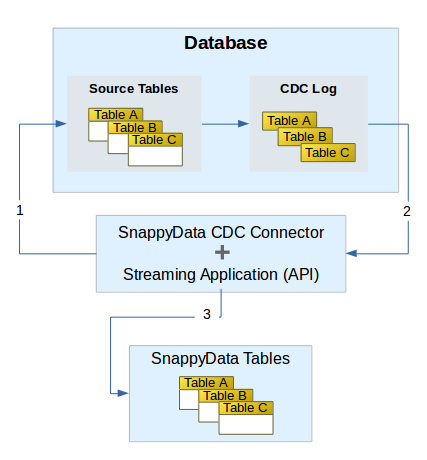
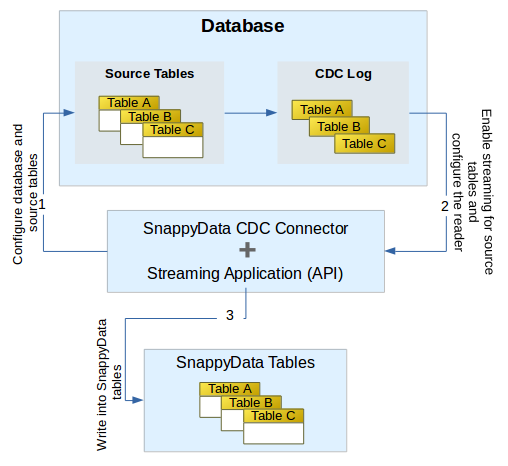
Updates to CDC doc

Changed region(s): [[0.0, 0.0, 0.9742, 0.9739], [0.1827, 0.1522, 0.4262, 0.3652]]

diff --git a/docs/connectors/cdc_connector.md b/docs/connectors/cdc_connector.md
@@ -4,14 +4,24 @@
 
 The Change Data Capture (CDC) mechanism enables you to capture changed data. The functionality provides an efficient framework for tracking inserts, updates, and deletes in tables in a SQL Server database. It is used to source event streams from JDBC sources to SnappyData streaming.</br>
 
-In this topic, we explain how SnappyData's Smart Connector application uses the JDBC streaming connector to pull changed data from Microsoft SQL Server and ingest it into SnappyData tables.
+In this topic, we explain how SnappyData uses the JDBC streaming connector to pull changed data from SQL database and ingest it into SnappyData tables.
 
 !!!Note:
-	Writing data into two different tables from a single table is currently not supported as the schema for incoming DataFrame cannot be changed. Currently, one to one correspondence between source table and destination table is supported.
+
+	- Writing data into two different tables from a single table is currently not supported as the schema for incoming data frame cannot be changed. Currently, one to one correspondence between the source table and destination table is supported.
+
+	- To capture changed data for multiple source tables, ensure that you create an instance for each source table.
+
+	-  For every source table that needs to be tracked for changes, ensure that there is a corresponding destination table in SnappyData.
+
 
 ## Prerequisites
 
-- You need the **snappydata-jdbc-stream-connector_2.11-0.9.jar**, which is available in the **$SNAPPY_HOME/jars** directory. </br>If you are using Maven or gradle project to develop the streaming application, you need to publish the above jar into a local maven repository.
+- Use a user account with the required roles and privileges to the database.
+
+- Ensure that a SQL Server to which SnappyData CDC Connector can connect is running and available.
+
+- You need the **snappydata-jdbc-stream-connector_2.11-0.9.jar**, which is available in the **$SNAPPY_HOME/jars** directory. </br>If you are using Maven or Gradle project to develop the streaming application, you need to publish the above jar into a local maven repository.
 
 - To run your application in the Smart connector mode, refer to the [documentation](../affinity_modes/connector_mode.md).
 
@@ -20,14 +30,23 @@ The following image illustrates the data flow for change data capture:</br>
 
 ## Setting up the CDC Connector
 
+To use this functionality have to configure the database and tables, enable streaming for the source tables, configure the reader and the writer.
+
+In this section, we discuss the steps required to set up the CDC connector and various components.
+
+### Understanding the Program Structure
+
 The RDB CDC connector ingests data into SnappyData from any JDBC enabled data server. We have a custom source with alias “jdbcStream” and a custom Sink with alias “snappystore”. Source has the capability to read from a JDBC source and Sink can do inserts/updates and deletes based on CDC operations
 
 ### Step 1: Set Up the Source SQL Database and Tables
 
-Ensure that change data capture is enabled for the database and table level. Refer to your database documentation for more information on enabling CDC for your database and tables.
+Ensure that change data capture is enabled for the database and table level. Refer to your database documentation for more information on enabling CDC.
 
-### Step 2: Enable Streaming for the Source Tables
+### Step 2: Enable Streaming for the Source Tables and configure the Reader
 
+
+
+#### Enable Streaming for the Source Tables
 Structured streaming and Spark’s JDBC source is used to read from the source database system.
 
 To enable this, set a stream referring to the source table.</br>
@@ -99,11 +118,11 @@ The JDBC Stream Reader options are:
     |`user`|User name |
     |`password`|Password|
     |`databaseName`|Database name|
-    |`poolImpl`|Connection pool implementation(default hikari) Only tomcat & hikari are supported|
+    |`poolImpl`|Connection pool implementation(default Hikari) Only Tomcat and Hikari are supported|
     |`maximumPoolSize`|Connection pool size ( default 10)|
     |`minimumIdle`|Minimum number of idle connection( default 5)|
 
-### Step 3: Operating on the reader with normal Structured streaming APIs
+#### Operating on the reader with normal Structured streaming APIs
 
 The sample usage can be as follows:
 
@@ -111,7 +130,7 @@ The sample usage can be as follows:
 Dataset<Row> ds = reader.load();
 ds.filter(<filter_condition>)
 ```
-### Step 4: Writing into SnappyData tables
+### Step 3: Writing into SnappyData tables
 
 To write into SnappyData tables you need to have a StreamWriter as follows:
 
@@ -124,17 +143,17 @@ ds.writeStream()
         .start();
 ```
 
-**Snappy Stream Writer options**
+#### Snappy Stream Writer options
 
-The **sink** option is mandatory for SnappyStore sink. This option is required to give the user control of the obtained dataframe. You can however provide any custom option when writing the streaming data to the tables.
+The **sink** option is mandatory for SnappyStore sink. This option is required to give the user control of the obtained data frame. You can, however, provide any custom option when writing the streaming data to the tables.
 
 | Key | Value |
 |--------|--------|
-|sink|A user defined callback class which will get a dataframe in each batch. The class must implement org.apache.spark.sql.streaming.jdbc.SnappyStreamSink interface.|
+|sink|A user-defined callback class which will get a data frame in each batch. The class must implement org.apache.spark.sql.streaming.jdbc.SnappyStreamSink interface.|
 
 **org.apache.spark.sql.streaming.jdbc.SnappyStreamSink**
 
-The above trait contains a single method , which user needs to implement. A user can use SnappyData mutable APIs (insert/update/delete/putInto) to maintain tables.
+The above trait contains a single method, which user needs to implement. A user can use SnappyData mutable APIs (insert/update/delete/putInto) to maintain tables.
 
 ```pre
     def process(snappySession: SnappySession, sinkProps: Properties,
@@ -164,7 +183,7 @@ A typical implementation would look like:
       snappyJavaUtil(snappyCustomerDelete.write()).deleteFrom("APP." + snappyTable);
 
       if(batchId == 0){ // Batch ID will be always 0 when stream app starts
-        // Incase of 0th batchId always do a putInto , as we don't know if its restaring from a failure.
+        // In case of 0th batchId always do a putInto , as we do not know if it is restarting from a failure.
         Dataset<Row> snappyCustomerUpsert = df
             // pick only insert/update ops
             .filter("\"__$operation\" = 4 OR \"__$operation\" = 2")
@@ -196,14 +215,23 @@ A typical implementation would look like:
 
 ## Additional Information
 
-**Offset Management**: One table per application is maintained for offset management (Offset table name for application = AppName_SNAPPY_JDBC_STREAM_CONTEXT). </br>
-The schema of the table is:
-               
-|TABLENAME  |LASTOFFSET |
-|--------|--------|
+- **Offset Management**: </br>
+	One table per application is maintained for offset management (Offset table name for application = AppName_SNAPPY_JDBC_STREAM_CONTEXT). </br>
+    The schema of the table is:
 
-Initially, the table contains no rows. The connector inserts a row for the table with minimum offset queried from the database. On subsequent intervals, it consults this table to get the offset number. </br>
-If connector application crashes, it refers to this table on restart to query further.
+    |TABLENAME  |LASTOFFSET |
+    |--------|--------|
 
-!!! Note
- 	The Spark configuration property `spark.task.maxFailures` defines the number of failures before giving up on the job. Set the value of this property to 0, for connector application to prevent Spark from retrying failed inserts.
+    Initially, the table contains no rows. The connector inserts a row for the table with minimum offset queried from the database. On subsequent intervals, it consults this table to get the offset number. </br>
+    If connector application crashes, it refers to this table on a restart to query further.
+
+    !!! Note
+        The Spark configuration property `spark.task.maxFailures` defines the number of failures before giving up on the job. Set the value of this property to 0, for connector application to prevent Spark from retrying failed inserts.
+    
+- **Primary Keys**: </br>
+	Primary keys are not supported for column tables. You can use `key_columns` instead, to uniquely identify each row/record in a database table. </br> For more information, see [CREATE EXTERNAL TABLE](../reference/sql_reference/create-external-table.md) and [CREATE TABLE](../reference/sql_reference/create-table.md).</br>
+    For example:
+
+		CREATE EXTERNAL staging_<table_name> USING csv OPTIONS(<path_to_csv_file>)
+
+		CREATE TABLE <table_name> USING column OPTIONS(partition_by '<column_name>', buckets '<num_partitions>',key_columns '<primary_key>') AS (SELECT * FROM from external table);

diff --git a/docs/programming_guide/snappydata_jobs.md b/docs/programming_guide/snappydata_jobs.md
@@ -1,5 +1,6 @@
 <a id="snappydata-jobs"></a>
 # SnappyData Jobs
+
 To create a job that can be submitted through the job server, the job must implement the **SnappySQLJob** or **SnappyStreamingJob** trait. The structure of a job looks as below:
  
 **Scala**
@@ -64,6 +65,7 @@ See [examples](https://github.com/SnappyDataInc/snappydata/tree/master/examples/
 SnappySQLJob trait extends the SparkJobBase trait. It provides users the singleton SnappyContext object that may be reused across jobs. SnappyContext singleton object creates one SnappySession per job. Similarly, SnappyStreamingJob provides users access to SnappyStreamingContext object that can be reused across jobs.
 
 ## Submitting Jobs
+
 The following command submits [CreateAndLoadAirlineDataJob](https://github.com/SnappyDataInc/snappydata/blob/master/examples/src/main/scala/io/snappydata/examples/CreateAndLoadAirlineDataJob.scala). This job creates DataFrames from parquet files, loads the data from DataFrame into column tables and row tables, and creates sample table on column table in its `runJob` method.
 
 !!! Note:
@@ -151,6 +153,7 @@ compile('io.snappydata:snappydata-cluster_2.11:1.0.1') {
 ```
 
 ## Running Python Applications
+
 Python users can submit a Python application using `bin/spark-submit` in the SnappyData Connector mode. Run the following command to submit a Python application:
 
 ```scala
@@ -163,10 +166,9 @@ bin/spark-submit \
 `snappydata.connection` property is a combination of locator host and JDBC client port on which the locator listens for connections (default 1527). It is used to connect to the SnappyData cluster.
 
 !!! Note:
-	For running ML/MLlib applications you need to install appropriate python packages if your application uses any.
-	KMeans uses numpy hence you need to install numpy package before using Spark KMeans.
-	
-	e.g. sudo apt-get install python-numpy
+	For running ML/MLlib applications you need to install appropriate python packages(if your application uses any).</br>
+	KMeans uses numpy hence you need to install numpy package before using Spark KMeans.</br>
+	For example `sudo apt-get install python-numpy`
 
 
 ## Streaming Jobs

diff --git a/docs/configuration.md b/docs/configuration.md
@@ -13,16 +13,18 @@ The following topics are covered in this section:
 	- [Configuring Locators](configuring_cluster/configuring_cluster.md#locator)
 
 	- [Configuring Leads](configuring_cluster/configuring_cluster.md#lead)
+	
+	- [Configuring Data Servers](configuring_cluster/configuring_cluster.md#dataserver)
 
 	- [Configuring SnappyData Smart Connector](configuring_cluster/configuring_cluster.md#configure-smart-connector)
 
-* [Environment Settings](configuring_cluster/configuring_cluster.md#environment)
+	- [Environment Settings](configuring_cluster/configuring_cluster.md#environment)
 
- 	- [Hadoop Provided Settings](configuring_cluster/configuring_cluster.md#hadoop-setting)
+	 	- [Hadoop Provided Settings](configuring_cluster/configuring_cluster.md#hadoop-setting)
 
- 	- [SnappyData Command Line Utility](configuring_cluster/configuring_cluster.md#command-line)
+	 	- [SnappyData Command Line Utility](configuring_cluster/configuring_cluster.md#command-line)
 
-* [Logging](configuring_cluster/configuring_cluster.md#logging)
+	- [Logging](configuring_cluster/configuring_cluster.md#logging)
 
 * [SSL Setup for Client-Server](configuring_cluster/ssl_setup.md)
 

diff --git a/README.md b/README.md
@@ -66,7 +66,7 @@ For additions related to SnappyData cluster, use:
 
 You can find more specific SnappyData artifacts [here](http://mvnrepository.com/artifact/io.snappydata)
 
-**Note:** If your project fails when resolving the above dependency (that is, it fails to download javax.ws.rs#javax.ws.rs-api;2.1), it may be due an issue with its pom file. </br> As a workaround you can add the below code to your **build.sbt**:
+**Note:** If your project fails when resolving the above dependency (that is, it fails to download javax.ws.rs#javax.ws.rs-api;2.1), it may be due an issue with its pom file. </br> As a workaround, you can add the below code to your **build.sbt**:
 
 ```
 val workaround = {
